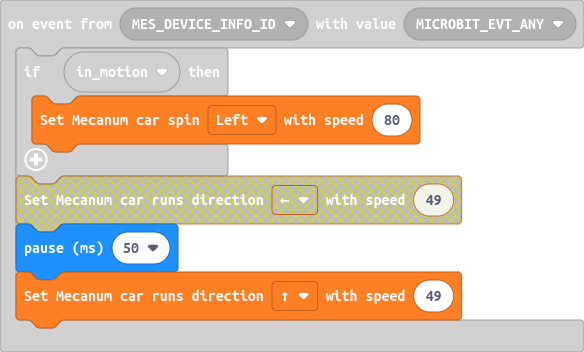
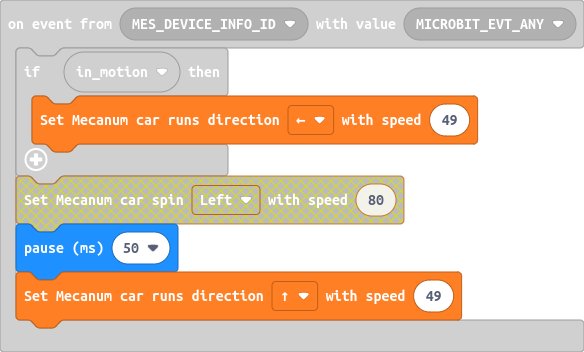
Update main.blocks, main.ts

Changed region(s): [[0.2774, 0.25, 0.8322, 0.4375], [0.2466, 0.5, 0.8014, 0.6562]]

diff --git a/main.ts b/main.ts
@@ -1,6 +1,6 @@
 control.onEvent(EventBusSource.MES_DEVICE_INFO_ID, EventBusValue.MICROBIT_EVT_ANY, function () {
     if (in_motion) {
-        wuKong.mecanumSpin(wuKong.TurnList.Left, 80)
+        wuKong.mecanumRun(wuKong.RunList.left, 49)
         basic.pause(50)
         wuKong.mecanumRun(wuKong.RunList.Front, 49)
     }
